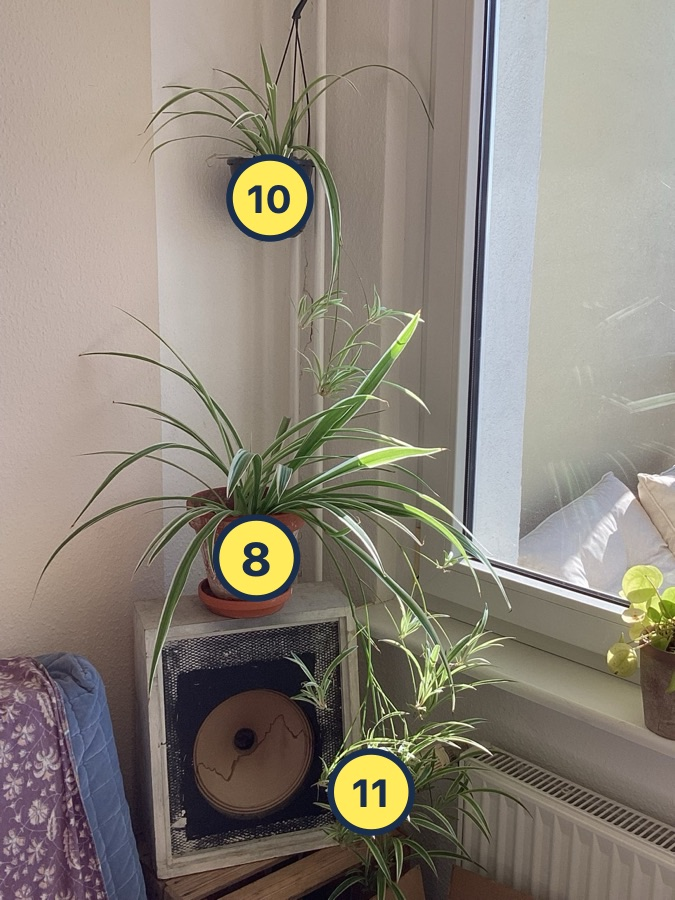
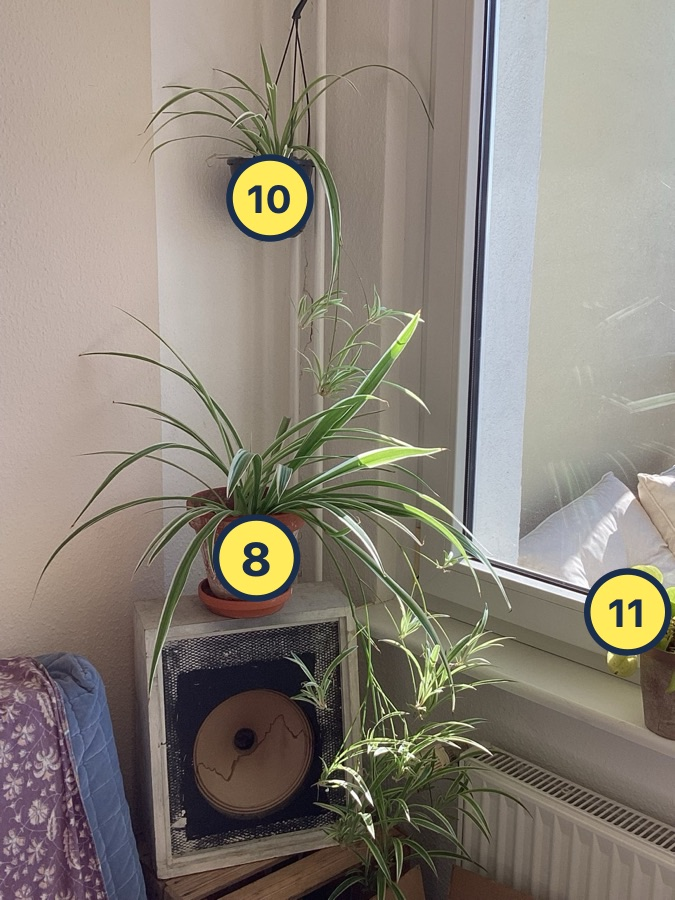
Plants: fourth pilea as No. 11, remove baby spider plant number, crop window view, reorder photos

Changed region(s): [[0.4667, 0.8089, 0.6222, 0.9333], [0.84, 0.6222, 0.9956, 0.7467]]

diff --git a/index.html b/index.html
@@ -342,9 +342,9 @@ const ITEMS = [
   link:"https://www.amazon.de/dp/B0DWMLMRWQ",
   de:{t:"Roborock Q7 L5+ Saug- und Wischroboter mit Absaugstation", d:"Saugt und wischt. Die Station leert den Staubbehälter automatisch. 8.000 Pa Saugkraft, Laser-Navigation, Steuerung per App. Neupreis zurzeit ca. 180 €."},
   en:{t:"Roborock Q7 L5+ robot vacuum and mop with auto-empty dock", d:"Vacuums and mops. The dock empties the dustbin automatically. 8,000 Pa suction, laser navigation, app control. Currently about 180 € new."}},
- {n:40, cat:"plants", st:"now", price:3, pt:{de:"Verschiedene Preise", en:"Various prices"}, img:["n_8207","n_spider1","n_a","n_e","n_c","n_d","n_8208","n_g","n_h"],
-  de:{t:"Zimmerpflanzen mit Topf", d:"Alle Pflanzen mit Topf. Die Nummern findest du auf den Fotos.\n\nUfopflanzen (Pilea)\n– Nr. 1, 2 und 3: je 5 €\n\nEfeututen\n– Nr. 4, die größte: 15 €\n– Nr. 5, Nr. 6 und eine weitere ohne Foto: je 10 €\n\nGrünlilien\n– Nr. 7 und 8, in Terrakottatöpfen: je 10 €\n– Nr. 9, 10 und die kleineren (Nr. 11): je 5 €\n– Nr. 14, klein, im terrakottafarbenen Kunststofftopf: 3 €\n\nWunderstrauch (Croton)\n– Nr. 12, schwarzer Topf: 8 €\n– Nr. 13, großer Terrakottatopf: 12 €\n\nWenn du mehrere Pflanzen nimmst, können wir über den Preis reden."},
-  en:{t:"House plants with pots", d:"All plants come with their pot. You'll find the numbers on the photos.\n\nPilea (Chinese money plant)\n– No. 1, 2 and 3: 5 € each\n\nPothos\n– No. 4, the biggest: 15 €\n– No. 5, No. 6 and one more without a photo: 10 € each\n\nSpider plants\n– No. 7 and 8, in terracotta pots: 10 € each\n– No. 9, 10 and the smaller ones (No. 11): 5 € each\n– No. 14, small, in a terracotta-coloured plastic pot: 3 €\n\nCroton\n– No. 12, black pot: 8 €\n– No. 13, large terracotta pot: 12 €\n\nIf you take several plants, we can talk about the price."}},
+ {n:40, cat:"plants", st:"now", price:3, pt:{de:"Verschiedene Preise", en:"Various prices"}, img:["n_8207","n_a","n_g","n_h","n_c","n_spider1","n_d","n_e","n_8208"],
+  de:{t:"Zimmerpflanzen mit Topf", d:"Alle Pflanzen mit Topf. Die Nummern findest du auf den Fotos.\n\nUfopflanzen (Pilea)\n– Nr. 1, 2, 3 und 11: je 5 €\n\nEfeututen\n– Nr. 4, die größte: 15 €\n– Nr. 5, Nr. 6 und eine weitere ohne Foto: je 10 €\n\nGrünlilien\n– Nr. 7 und 8, in Terrakottatöpfen: je 10 €\n– Nr. 9 und 10: je 5 €\n– Nr. 14, klein, im terrakottafarbenen Kunststofftopf: 3 €\n\nWunderstrauch (Croton)\n– Nr. 12, schwarzer Topf: 8 €\n– Nr. 13, großer Terrakottatopf: 12 €\n\nWenn du mehrere Pflanzen nimmst, können wir über den Preis reden."},
+  en:{t:"House plants with pots", d:"All plants come with their pot. You'll find the numbers on the photos.\n\nPilea (Chinese money plant)\n– No. 1, 2, 3 and 11: 5 € each\n\nPothos\n– No. 4, the biggest: 15 €\n– No. 5, No. 6 and one more without a photo: 10 € each\n\nSpider plants\n– No. 7 and 8, in terracotta pots: 10 € each\n– No. 9 and 10: 5 € each\n– No. 14, small, in a terracotta-coloured plastic pot: 3 €\n\nCroton\n– No. 12, black pot: 8 €\n– No. 13, large terracotta pot: 12 €\n\nIf you take several plants, we can talk about the price."}},
  {n:41, cat:"office", st:"later", price:45, img:["router"],
   link:"https://www.amazon.de/dp/B09N8NJD66",
   de:{t:"FRITZ!Box 7510 WLAN-Router", d:"DSL-Router mit Wi-Fi 6 (bis 600 MBit/s), Mesh, Telefonanlage und Smart-Home-Zentrale. Das Foto ist ein Produktbild. Neupreis ca. 100 €."},
